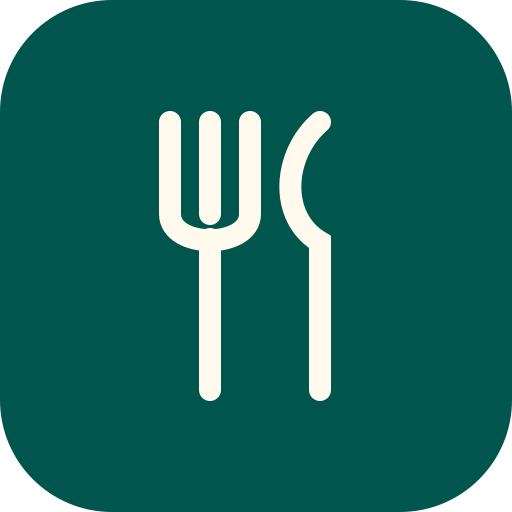
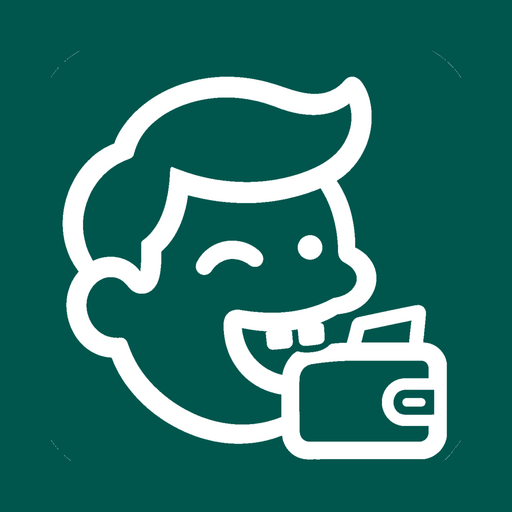
Integrate ByteBudget mascot and stabilize bottom navigation

diff --git a/src/style.css b/src/style.css
@@ -23,18 +23,35 @@
 .nav{bottom:0;min-height:calc(58px + env(safe-area-inset-bottom,0px));padding:5px 0 calc(2px + env(safe-area-inset-bottom,0px))}
 .price-group h2{margin:22px 0 8px;color:var(--teal)}
 .open-pilot-attribution{white-space:normal}
+.open-pilot-shell{
+  --rail-width:48px;
+  --rail-padding:2px;
+  --rail-tile-height:clamp(29px,calc((100dvh - 160px - env(safe-area-inset-top,0px) - env(safe-area-inset-bottom,0px))/15),40px);
+}
+.open-pilot-shell .top{direction:ltr}
+.open-pilot-shell .brand img{
+  width:calc(var(--rail-width) - 2 * var(--rail-padding));
+  height:var(--rail-tile-height);
+  margin-left:var(--rail-padding);
+  padding:2px;
+  flex-shrink:0;
+  object-fit:contain;
+  background:var(--teal);
+  border-radius:12px;
+}
 /* The rail stays on the left, including in right-to-left languages. */
 .discovery-shell{height:100dvh;min-height:0;display:grid;grid-template-rows:auto minmax(0,1fr);padding-bottom:calc(54px + env(safe-area-inset-bottom,0px));overflow:hidden}
 .discovery-shell .top{margin-bottom:8px}
-.discovery-shell .nav{height:calc(52px + env(safe-area-inset-bottom,0px));min-height:0;padding:0 0 env(safe-area-inset-bottom,0px);align-items:end}
-.discovery-shell .nav button{min-height:44px;gap:0}
-.category-layout{display:grid;grid-template-columns:48px minmax(0,1fr);gap:8px;direction:ltr;min-height:0}
+.open-pilot-shell .nav{height:calc(52px + env(safe-area-inset-bottom,0px));min-height:0;padding:0 0 env(safe-area-inset-bottom,0px);align-items:end}
+.open-pilot-shell .nav button{min-height:44px;gap:0}
+.category-layout{display:grid;grid-template-columns:var(--rail-width) minmax(0,1fr);gap:8px;direction:ltr;min-height:0}
 .category-results{min-width:0;overflow-y:auto;overscroll-behavior-y:contain}
-.category-rail{display:grid;grid-template-rows:minmax(0,1fr) clamp(30px,5dvh,40px);gap:0;overflow-y:auto;padding:2px}
-.category-buttons{display:grid;grid-template-rows:minmax(38px,1.12fr);grid-auto-rows:minmax(29px,1fr)}
+.category-rail{display:grid;grid-template-rows:minmax(0,1fr) clamp(30px,5dvh,40px);gap:0;overflow-y:auto;padding:var(--rail-padding)}
+.category-buttons{display:grid;grid-template-rows:minmax(38px,1.12fr);grid-auto-rows:minmax(var(--rail-tile-height),1fr)}
 .category-rail button{display:grid;place-items:center;align-content:center;min-height:0;padding:1px 0;border-radius:12px;background:transparent;color:var(--teal);font-size:10px;line-height:1.15;overflow-wrap:anywhere}
 @media(max-height:600px){.category-rail{grid-template-rows:auto 34px}}
-@media(min-width:700px){.discovery-shell{height:calc(100dvh - 64px)}.discovery-shell .nav{bottom:32px}}
+@media(min-width:700px){.discovery-shell{height:calc(100dvh - 64px)}.open-pilot-shell .nav{bottom:32px}}
+.category-buttons button:not(:first-child){height:var(--rail-tile-height);align-self:center}
 .category-rail button[aria-pressed=true]{background:#dce9df;box-shadow:inset 0 0 0 1px #699286}
 .category-rail button:focus-visible{outline-offset:-3px}
 .category-rail svg{width:25px;height:25px}

diff --git a/src/app.js b/src/app.js
@@ -47,7 +47,7 @@ function setData(next){
 }
 
 const plate=(v=0)=>`<div class="thumb v${[0,1,2].includes(v)?v:0}"><div class="plate" aria-hidden="true"></div></div>`;
-function header(){return `<header class="top"><div class="brand"><img src="./public/icon.svg" alt="">ByteBudget</div><div class="header-controls">${openPilot?`<button id="credits" class="credits" aria-label="${esc(t('dataLicenses'))}">ⓘ</button>`:''}<select class="language" aria-label="${t('language')}" id="language">${languages.map(({code,name})=>`<option value="${code}" ${lang===code?'selected':''}>${name}</option>`).join('')}</select></div></header>${!openPilot&&data?.demo?`<div class="notice">${t('demo')}</div>`:''}`}
+function header(){return `<header class="top"><div class="brand"><img src="./public/icon-192.png" alt="">ByteBudget</div><div class="header-controls">${openPilot?`<button id="credits" class="credits" aria-label="${esc(t('dataLicenses'))}">ⓘ</button>`:''}<select class="language" aria-label="${t('language')}" id="language">${languages.map(({code,name})=>`<option value="${code}" ${lang===code?'selected':''}>${name}</option>`).join('')}</select></div></header>${!openPilot&&data?.demo?`<div class="notice">${t('demo')}</div>`:''}`}
 function providerCredits(){
  const credits=new Map();for(const v of data?.venues||[])for(const a of v.attributions||[]){if(typeof a.provider!=='string')continue;let url;try{const u=new URL(a.providerUri);if(u.protocol==='https:')url=u.href}catch{}credits.set(a.provider,{name:a.provider,url});}
  return [...credits.values()].map(a=>`<p class="subtle">${a.url?`<a href="${esc(a.url)}" target="_blank" rel="noopener noreferrer">${esc(a.name)}</a>`:esc(a.name)}</p>`).join('');

diff --git a/index.html b/index.html
@@ -1,1 +1,1 @@
-<!doctype html><html lang="en"><head><meta charset="utf-8"><meta name="viewport" content="width=device-width,initial-scale=1,viewport-fit=cover"><meta name="theme-color" content="#00564d"><meta name="description" content="Discover highly rated places to eat within your budget and walking distance."><title>ByteBudget — Eat well. Your way.</title><link rel="icon" href="./public/icon.svg"><link rel="manifest" href="./public/manifest.webmanifest"><link rel="stylesheet" href="./src/style.css"></head><body><div id="app"></div><script type="module" src="./src/app.js"></script></body></html>
+<!doctype html><html lang="en"><head><meta charset="utf-8"><meta name="viewport" content="width=device-width,initial-scale=1,viewport-fit=cover"><meta name="theme-color" content="#00564d"><meta name="description" content="Discover highly rated places to eat within your budget and walking distance."><title>ByteBudget — Eat well. Your way.</title><link rel="icon" href="./public/icon-192.png"><link rel="manifest" href="./public/manifest.webmanifest"><link rel="stylesheet" href="./src/style.css"></head><body><div id="app"></div><script type="module" src="./src/app.js"></script></body></html>

diff --git a/public/sw.js b/public/sw.js
@@ -1,5 +1,5 @@
-const CACHE='bytebudget-shell-v8';
-const SHELL=['./','./index.html','./src/app.js','./src/style.css','./public/icon.svg','./public/icon-192.png','./public/icon-512.png','./public/manifest.webmanifest'];
+const CACHE='bytebudget-shell-v9';
+const SHELL=['./','./index.html','./src/app.js','./src/style.css','./public/icon-192.png','./public/icon-512.png','./public/manifest.webmanifest'];
 self.addEventListener('install',e=>e.waitUntil(caches.open(CACHE).then(c=>c.addAll(SHELL))));
 self.addEventListener('activate',e=>e.waitUntil(caches.keys().then(keys=>Promise.all(keys.filter(k=>k!==CACHE).map(k=>caches.delete(k))))));
 self.addEventListener('fetch',e=>{const u=new URL(e.request.url);if(e.request.method!=='GET'||u.origin!==location.origin||!SHELL.some(p=>new URL(p,self.registration.scope).href===u.href))return;e.respondWith(fetch(e.request).catch(()=>caches.match(e.request)));});
